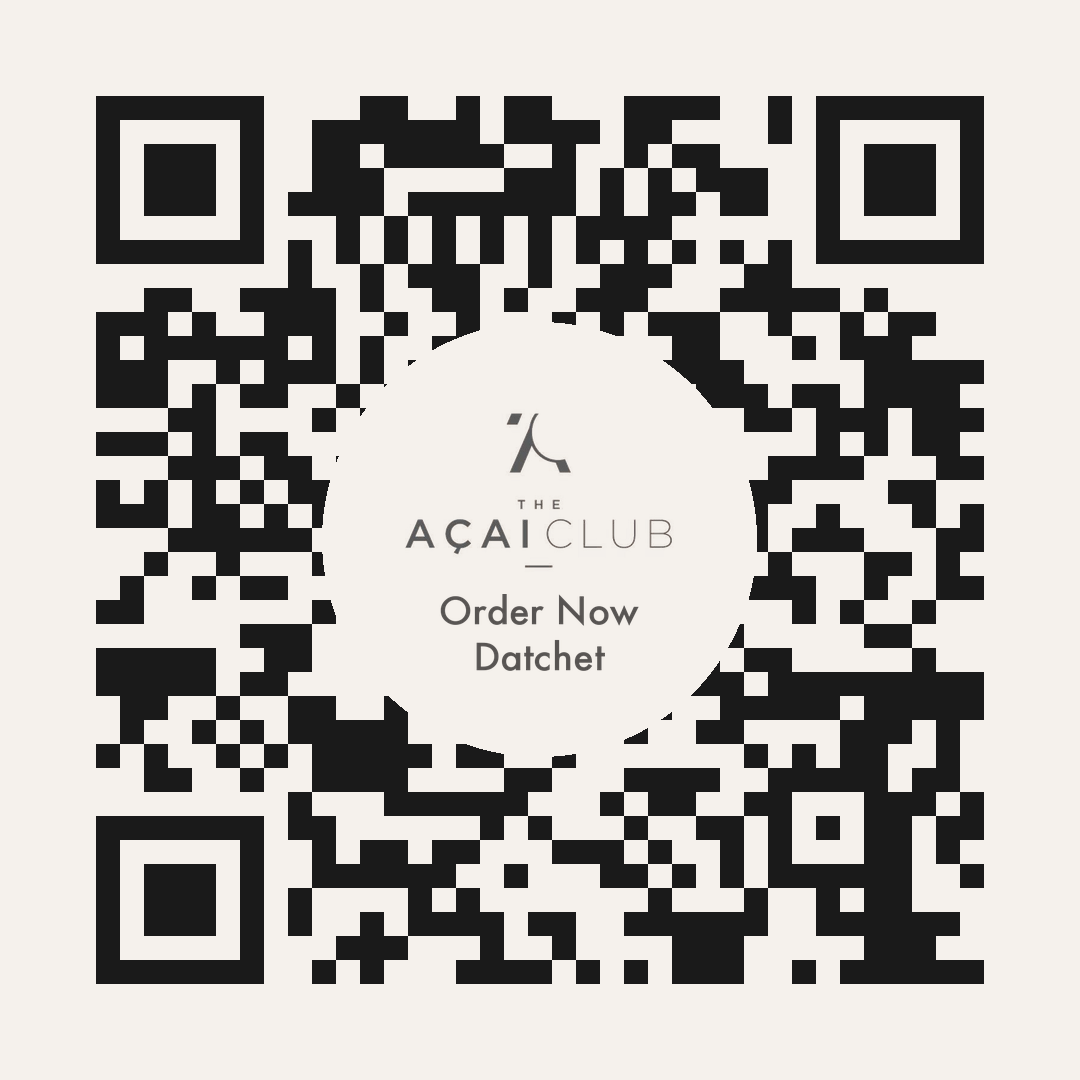
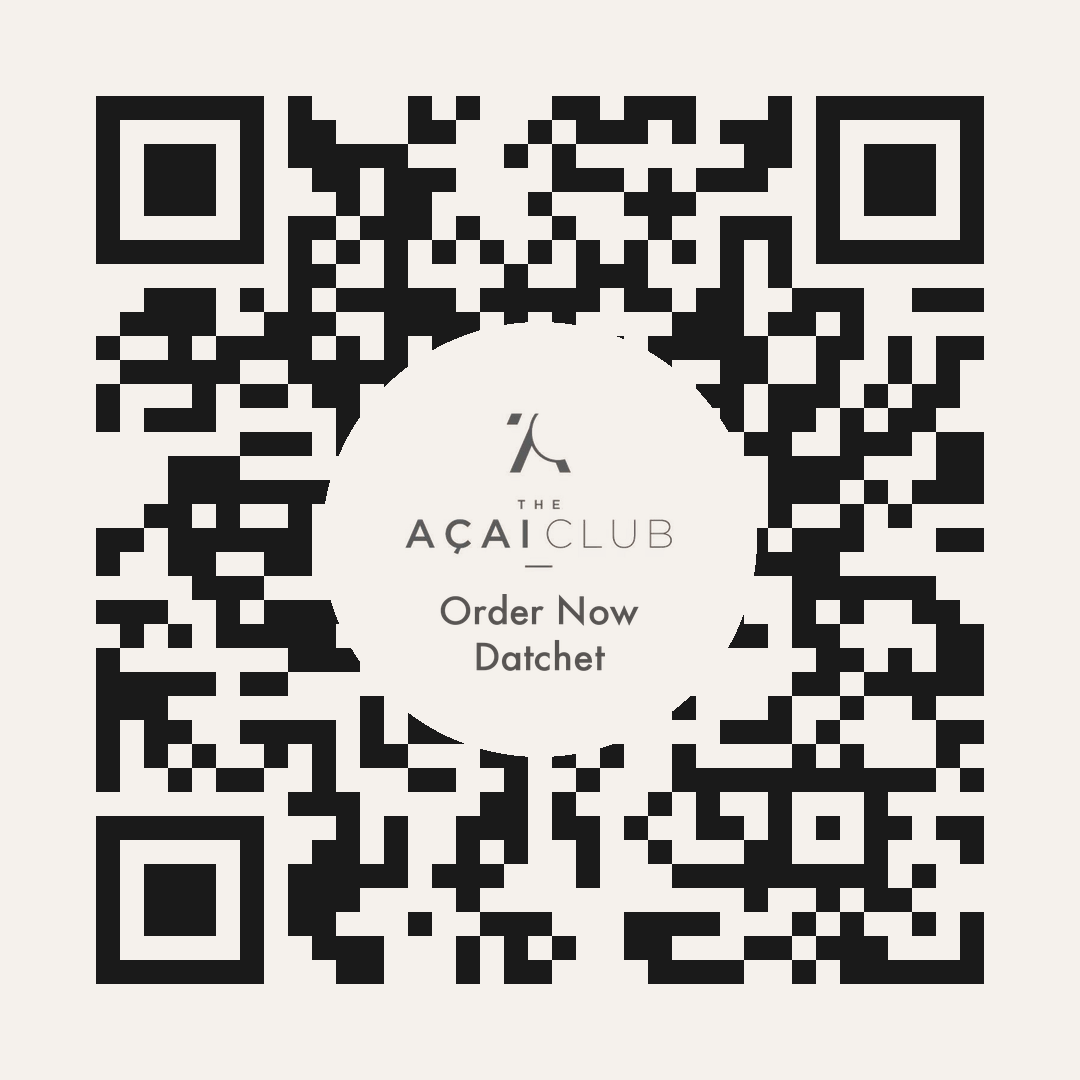
QR: unify deep-link param to ?target= (run-club/store slug) across app QRs

Changed region(s): [[0.0917, 0.0917, 0.9167, 0.9167]]

diff --git a/qr/generate-all.py b/qr/generate-all.py
@@ -16,14 +16,16 @@ mq = importlib.util.module_from_spec(spec); spec.loader.exec_module(mq)
 GET = "https://theacaiclub.com/get"
 IG = "https://www.instagram.com/channel/AbY12BpE6JQD6QOB/"
 
-# name, url, two-line label
+# name, url, two-line label.
+# Deep-link intent is carried in a single ?target= param (run-club / store slug),
+# read by /get today (download) and by the app's deep-link handler later.
 SET = [
     ("app-download",        GET,                          ["Download", "the App"]),
     ("runclub-instagram",   IG,                           ["Run Club", "Community"]),
-    ("app-runclub",         GET + "?page=run-club",       ["Run Club", "in the App"]),
-    ("order-beaconsfield",  GET + "?location=beaconsfield", ["Order Now", "Beaconsfield"]),
-    ("order-reading",       GET + "?location=reading",    ["Order Now", "Reading"]),
-    ("order-datchet",       GET + "?location=datchet",    ["Order Now", "Datchet"]),
+    ("app-runclub",         GET + "?target=run-club",     ["Run Club", "in the App"]),
+    ("order-beaconsfield",  GET + "?target=beaconsfield", ["Order Now", "Beaconsfield"]),
+    ("order-reading",       GET + "?target=reading",      ["Order Now", "Reading"]),
+    ("order-datchet",       GET + "?target=datchet",      ["Order Now", "Datchet"]),
 ]
 
 if __name__ == "__main__":
